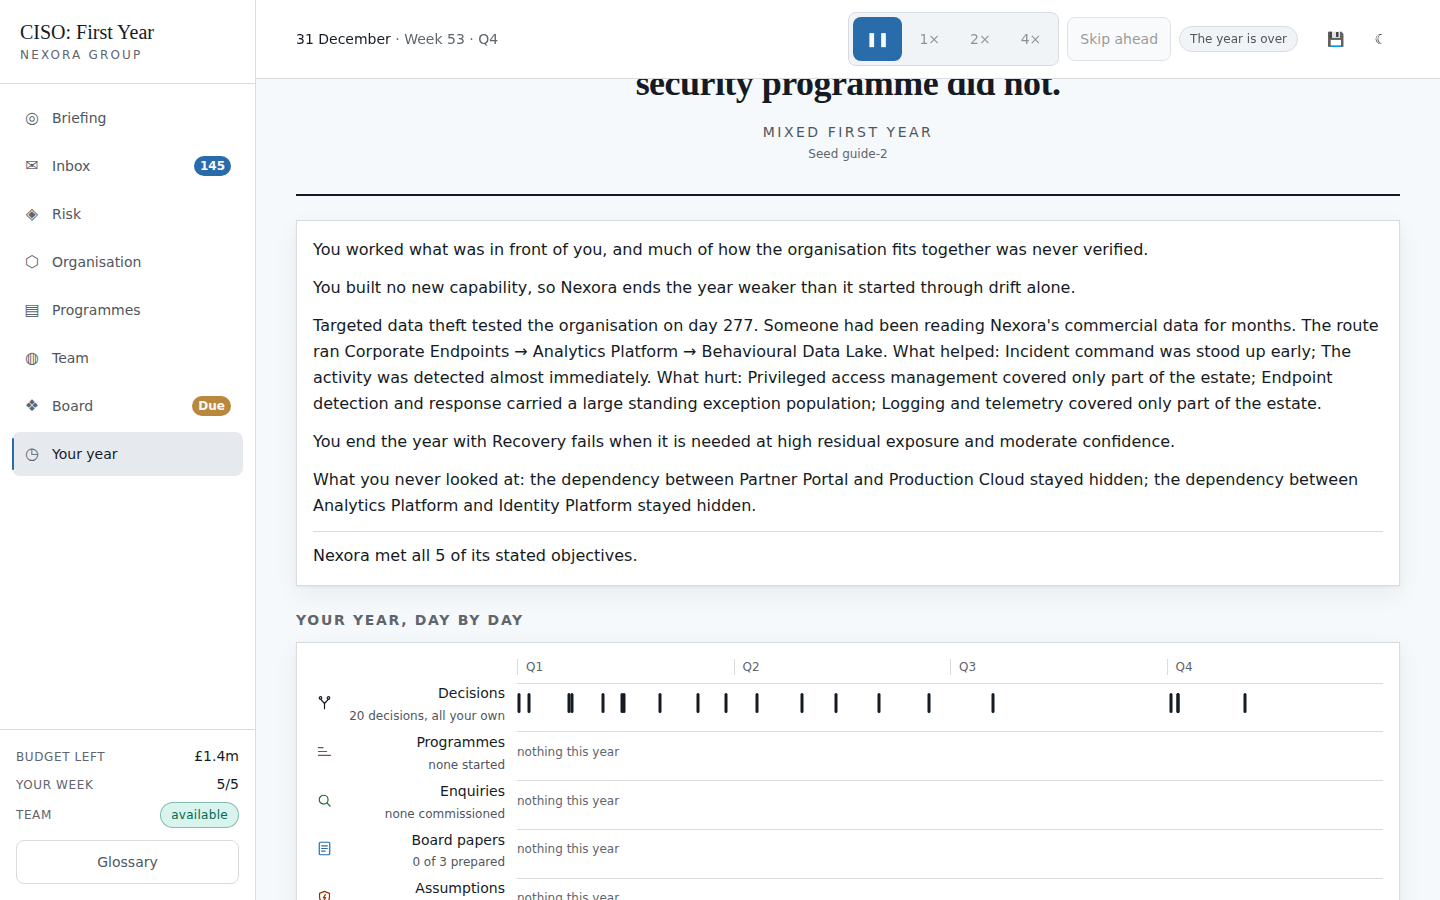
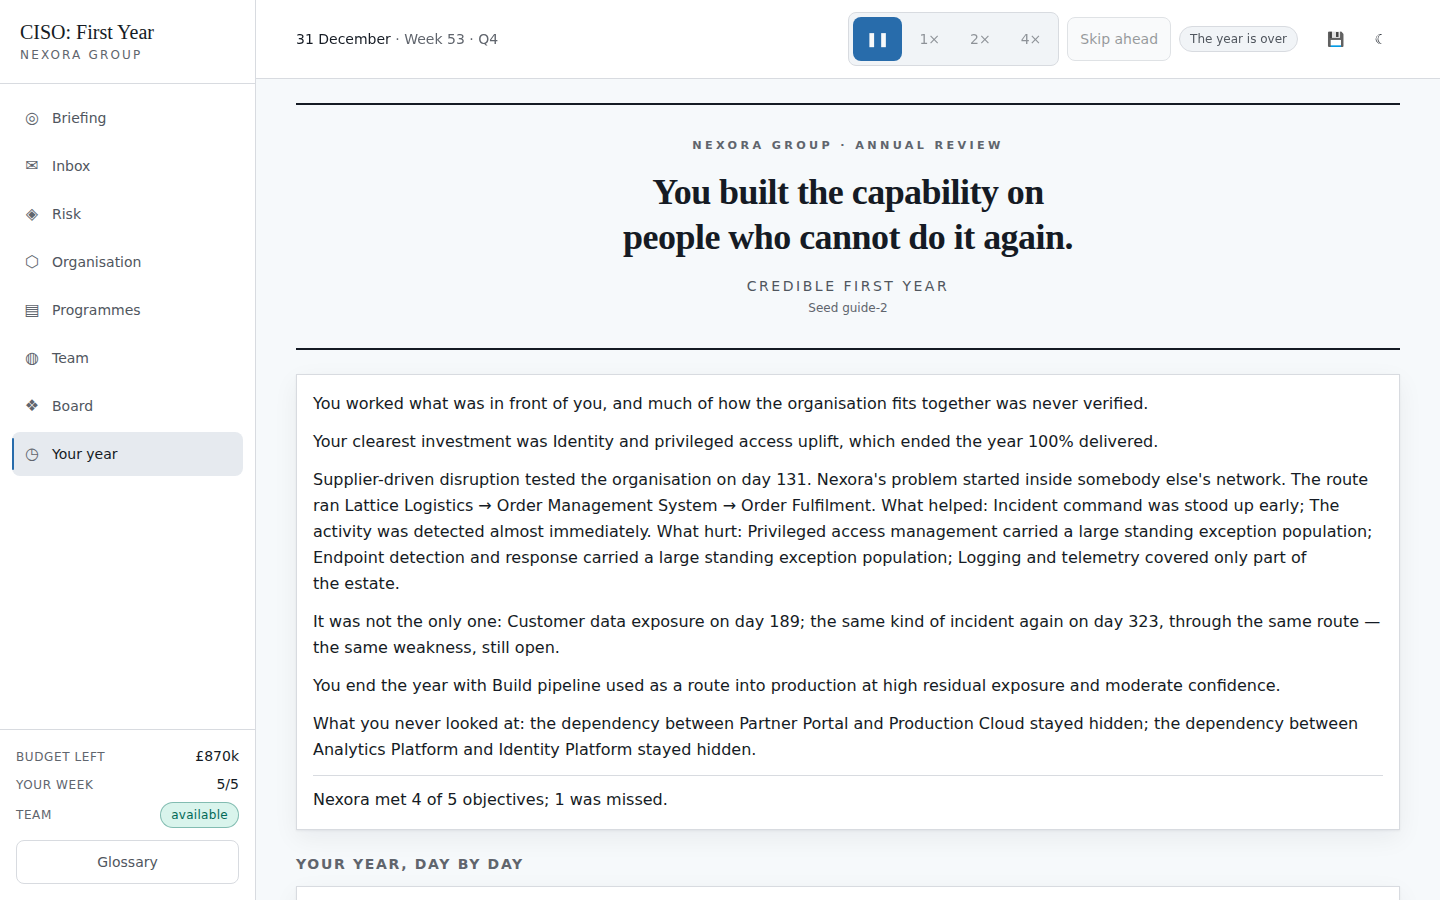
Photograph the incident and the annual review from prepared campaigns too
The test drove a whole year through the interface, up to ten minutes, for
two pictures; it now loads campaigns the engine stopped mid-incident and at
the year's natural end, in about three seconds. The prepared year files its
board papers, reads its inbox and runs the identity programme, so the
pictures show a played year rather than an abandoned one. All guide
pictures regenerated.

Claude-Session: https://claude.ai/code/session_01QQ5khq6U7faXndHvyfrAxx

diff --git a/tests/e2e/guide-shots.spec.ts b/tests/e2e/guide-shots.spec.ts
@@ -11,10 +11,10 @@ import { openPreparedCampaign, prepareCampaign } from './prepared'
  *
  *   pnpm guide:shots
  *
- * Three independent tests rather than one long one, each starting its own
- * campaign. The screens that only appear later in a year take minutes of
- * simulated time to reach, and a single sequence meant one slow phase stopped
- * the rest being captured at all.
+ * Three independent tests rather than one long one. The first hour is played
+ * through the interface; the screens that only appear later in a year are
+ * photographed from campaigns the engine played there (see prepared.ts),
+ * because reaching them through the interface took minutes and often failed.
  */
 
 /** Transient confirmations sit over the page for five seconds: noise in a guide. */
@@ -45,41 +45,6 @@ async function dismissNote(page: Page): Promise<boolean> {
   if (!(await got.isVisible().catch(() => false))) return false
   await got.click()
   return true
-}
-
-/**
- * One turn of ordinary play: clear the note, form what is offered, answer what
- * is asked, otherwise advance. Every probe takes `.first()` — a locator that
- * resolves to more than one element throws in strict mode, and a `catch` around
- * it turns that into a silent "not visible" that never fires the branch.
- */
-async function playOn(page: Page): Promise<'moved' | 'ended'> {
-  if (await dismissNote(page)) return 'moved'
-
-  const offer = page.getByRole('button', { name: 'Form the hypothesis' }).first()
-  if ((await offer.isVisible().catch(() => false)) && !(await offer.isDisabled())) {
-    await offer.click()
-    return 'moved'
-  }
-
-  const decide = page.getByRole('button', { name: /^Decide$/ }).first()
-  if (await decide.isVisible().catch(() => false)) {
-    await decide.click()
-    await page.getByRole('radio').first().check()
-    const why = page.getByRole('button', { name: /Record why first/ }).first()
-    if (await why.isVisible().catch(() => false)) {
-      await page.getByRole('button', { name: 'More evidence is required' }).first().click()
-    }
-    const commit = page.getByRole('button', { name: /Commit to this/ }).first()
-    if (await commit.isVisible().catch(() => false)) await commit.click()
-    else await page.keyboard.press('Escape')
-    return 'moved'
-  }
-
-  const skip = page.getByRole('button', { name: 'Skip ahead' }).first()
-  if (!(await skip.isVisible().catch(() => false))) return 'ended'
-  await skip.click()
-  return 'moved'
 }
 
 // A seed whose year has something on every board paper and more than one
@@ -162,23 +127,25 @@ test.describe('player guide', () => {
     await shot(page, '08-board')
   })
 
+  /**
+   * An incident mid-response and the annual review, from prepared campaigns
+   * like the board paper above. This drove a whole year through the interface
+   * at up to 500 polls and ten minutes, which is why the pictures went stale
+   * between runs; the engine reaches both in seconds.
+   */
   test('an incident, and the closing review', async ({ page }) => {
-    test.setTimeout(600_000)
-    await startCampaign(page, SEED)
-    let sawIncident = false
+    test.setTimeout(180_000)
 
-    for (let i = 0; i < 500; i += 1) {
-      if (!sawIncident && (await page.getByText('Incident active').first().isVisible().catch(() => false))) {
-        await shot(page, '09-incident')
-        sawIncident = true
-      }
-      if (await page.getByText('Annual review').first().isVisible().catch(() => false)) break
-      if ((await playOn(page)) === 'ended') break
-    }
+    await openPreparedCampaign(page, prepareCampaign(SEED, 'incident'))
+    await dismissNote(page)
+    await expect(page.getByText('Incident active').first()).toBeVisible()
+    await shot(page, '09-incident')
 
+    await openPreparedCampaign(page, prepareCampaign(SEED, 'year-end'))
+    await dismissNote(page)
+    // A finished year opens on its review.
+    await expect(page.getByText('How the year is read')).toBeVisible()
     await page.waitForTimeout(400)
     await shot(page, '10-review')
-    expect(sawIncident, 'the year had no incident to photograph').toBe(true)
-    await expect(page.getByText('Annual review').first()).toBeVisible()
   })
 })

diff --git a/scripts/prepare-campaign.ts b/scripts/prepare-campaign.ts
@@ -2,7 +2,7 @@
  * Prints a saved campaign, played by the engine up to a stopping point, as
  * the JSON record the game keeps in IndexedDB.
  *
- *   pnpm tsx scripts/prepare-campaign.ts <seed> <pattern|board|day:N> [difficulty]
+ *   pnpm tsx scripts/prepare-campaign.ts <seed> <pattern|board|incident|year-end|day:N> [difficulty]
  *
  * For screens that only exist months into a year. The guide's board-paper
  * picture used to be reached by driving a quarter of play through the
@@ -15,6 +15,7 @@ import { buildContentIndex } from '../src/game/engine/content-index'
 import { applyAction, newGame, runDays } from '../src/game/engine/orchestrator'
 import { nexoraContent } from '../src/content/nexora'
 import { patternSuggestions } from '../src/store/selectors'
+import { materialTopics } from '../src/game/debrief/review'
 import { SAVE_SCHEMA_VERSION } from '../src/game/types'
 import type { Difficulty, GameState } from '../src/game/types'
 
@@ -24,16 +25,18 @@ const [, , seed = 'prepared', stop = 'board', difficulty = 'ciso'] = process.arg
 const until = (state: GameState): boolean => {
   if (stop === 'pattern') return state.currentDay > 30 && patternSuggestions(state, index).length > 0
   if (stop === 'board') return state.reviews.pendingQuarter !== undefined
+  if (stop === 'incident') return Object.values(state.incidents.incidents).some((i) => i.phase === 'containment')
+  if (stop === 'year-end') return state.finished
   if (stop.startsWith('day:')) return state.currentDay >= Number(stop.slice(4))
   throw new Error(`unknown stopping point: ${stop}`)
 }
 
 const state = newGame(index, { seed, difficulty: difficulty as Difficulty })
 // A light, engaged year: answer what is asked, form what the game notices,
-// commission a couple of enquiries, leave the rest.
+// commission a couple of enquiries, run one programme, leave the rest.
 const enquiries = ['inv-service-review', 'inv-access-review']
 let next = 0
-for (let day = 0; day < 364 && !until(state); day += 1) {
+for (let day = 0; day < 366 && !state.finished && !until(state); day += 1) {
   for (const id of [...state.decisions.openIds]) {
     const def = index.decision.get(state.decisions.decisions[id]!.defId)!
     const tags = def.rationaleTagIds?.slice(0, 1) ?? ['rat-more-evidence']
@@ -48,6 +51,29 @@ for (let day = 0; day < 364 && !until(state); day += 1) {
       type: 'createHypothesis', templateId: offered.templateId, evidenceIds: offered.evidence.map((e) => e.id),
     })
     if (made.ok) applyAction(state, index, { type: 'convertHypothesis', hypothesisId: Object.keys(state.risks.hypotheses).at(-1)! })
+  }
+  // File each quarter's paper with what is material, unless the point is to
+  // photograph one waiting; read the inbox; run the identity programme. A
+  // year prepared without these showed a board paper "Due" on 30 December,
+  // 157 unread messages and a review about a player who built nothing.
+  if (stop !== 'board' && state.reviews.pendingQuarter !== undefined) {
+    applyAction(state, index, {
+      type: 'completeQuarterReview',
+      quarter: state.reviews.pendingQuarter,
+      topics: materialTopics(state, index).filter((t) => t.material).map((t) => t.id),
+      recommendations: [],
+      communicateUncertainty: true,
+    })
+  }
+  for (const message of state.inbox.messages) if (!message.read) applyAction(state, index, { type: 'markRead', messageId: message.id })
+  if (day === 25) {
+    const identity = index.programme.get('prog-identity')!
+    applyAction(state, index, { type: 'startProgramme', programmeId: identity.id, budget: identity.budgetCost })
+  }
+  for (const programme of Object.values(state.programmes.programmes)) {
+    for (const blocker of programme.blockers) {
+      if (!blocker.resolved) applyAction(state, index, { type: 'resolveProgrammeBlocker', programmeId: programme.id, blockerId: blocker.id })
+    }
   }
   if (next < enquiries.length && state.team.assignments.every((a) => a.status !== 'running')) {
     const leader = index.content.leaders[next % index.content.leaders.length]!.id

diff --git a/tests/e2e/prepared.ts b/tests/e2e/prepared.ts
@@ -6,7 +6,7 @@ import { expect, type Page } from '@playwright/test'
  * own save, for screens that only exist months into a year. The playing is
  * done by `scripts/prepare-campaign.ts`; see there for why it is not done here.
  */
-export type Stop = 'pattern' | 'board' | `day:${number}`
+export type Stop = 'pattern' | 'board' | 'incident' | 'year-end' | `day:${number}`
 
 export function prepareCampaign(seed: string, stop: Stop, difficulty = 'ciso'): unknown {
   const out = execFileSync('node_modules/.bin/tsx', ['scripts/prepare-campaign.ts', seed, stop, difficulty], {

diff --git a/docs/FINDINGS.md b/docs/FINDINGS.md
@@ -403,6 +403,16 @@ fault.
   Playwright because Playwright loads modules as native ESM and the campaign's
   JSON imports are written for Vite and tsx.
 
+  The incident and annual-review pictures went the same way afterwards: that
+  test drove a whole year through the interface, up to 500 polls and ten
+  minutes, and now loads prepared campaigns stopped mid-incident and at the
+  year's natural end, in about three seconds. The prepared policy was first
+  too idle to photograph honestly — the Q3 board paper still "Due" on 30
+  December, 157 unread messages, a review about a player who built nothing —
+  so it now files each quarter's paper with what is material, reads the
+  inbox, runs the identity programme and clears its blockers. The mid-year
+  layout and accessibility tests use the same prepared year.
+
 - **Five risk bands were authored and two were ever used.** One cut list at
   0.16 / 0.34 / 0.55 / 0.75 served three different quantities, and it was cut
   for a 0..1 range none of them reach. Measured with a new probe,
